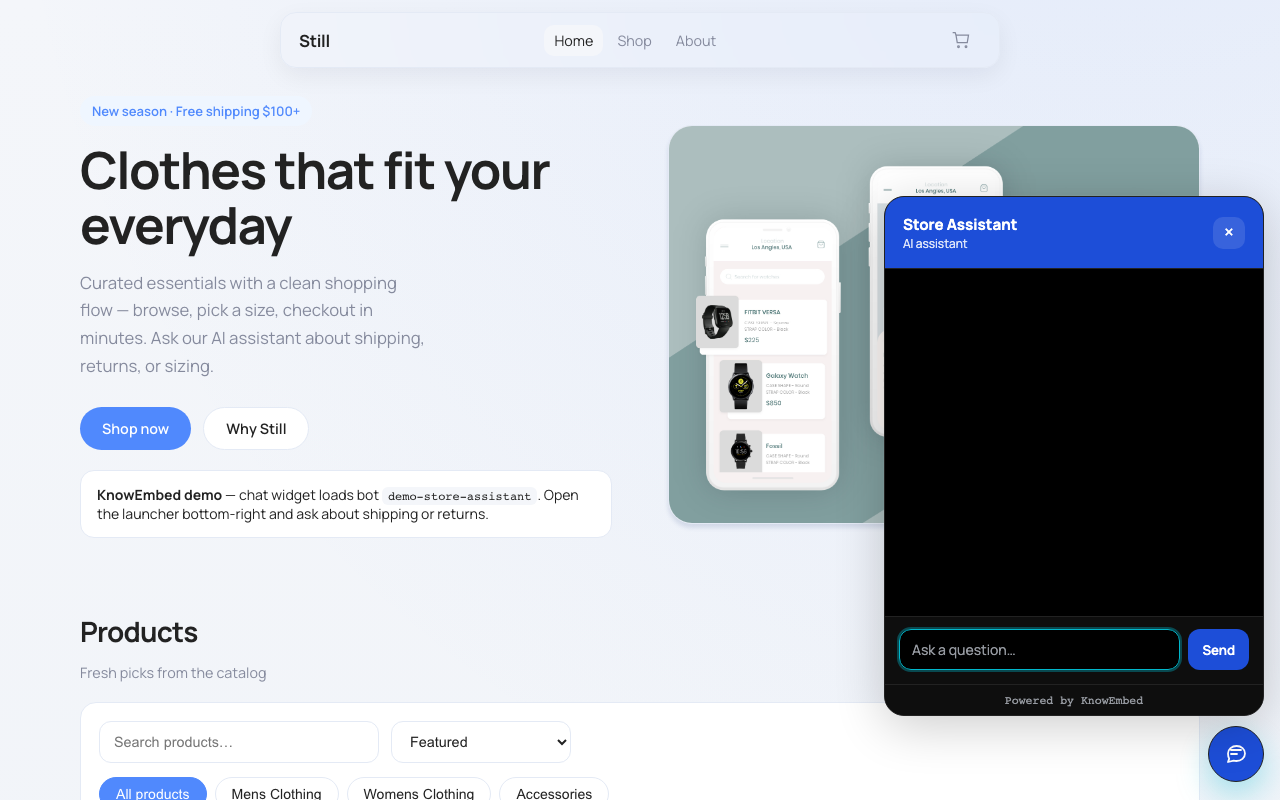
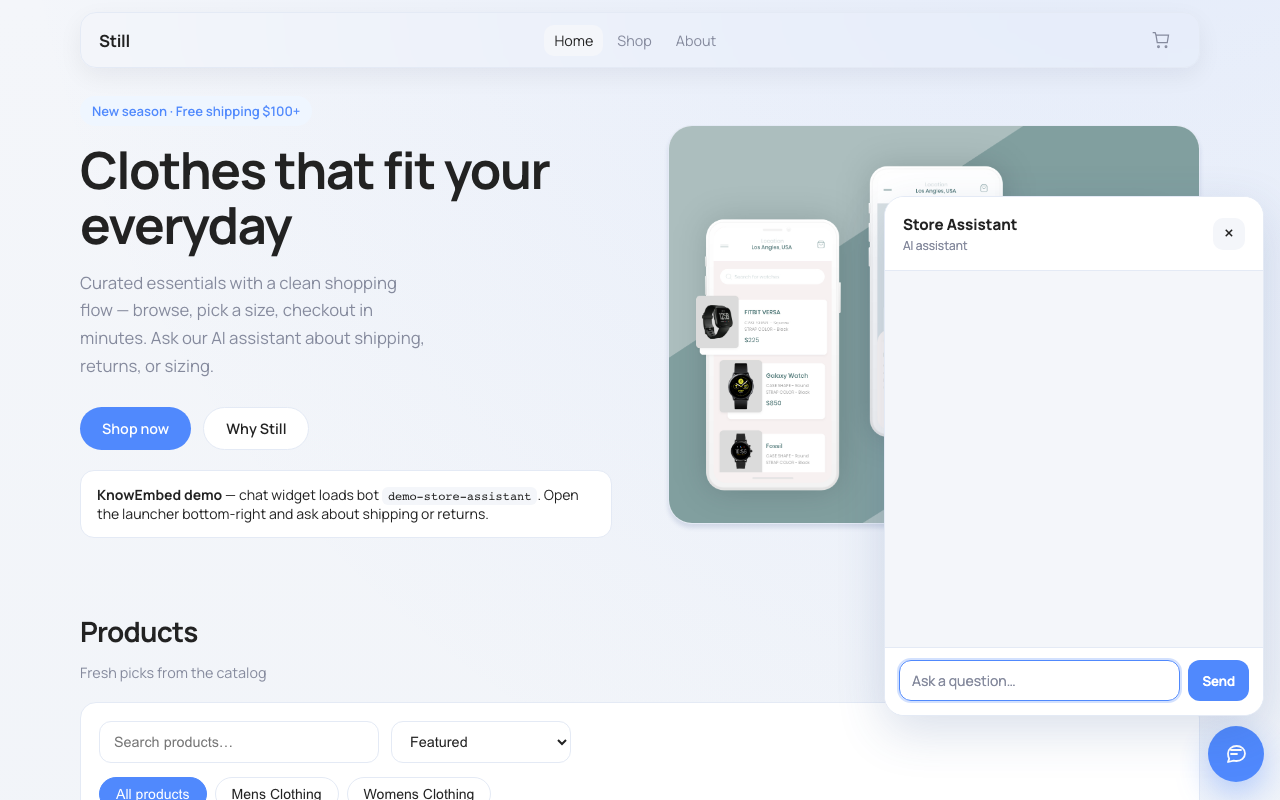
Unify mobile admin chrome and refresh marketing screenshots.
Compact tabbar/topbar on all mobile admin pages to match analytics, widen store demo header nav on small screens, and recapture guide, OG, and app promo assets.

diff --git a/src/theme.css b/src/theme.css
@@ -1077,18 +1077,20 @@ body {
     grid-template-areas:
       'topbar'
       'main';
-    padding-bottom: calc(64px + env(safe-area-inset-bottom, 0px));
+    padding-bottom: calc(52px + env(safe-area-inset-bottom, 0px));
   }
 
   .app-topbar {
     display: flex;
     grid-area: topbar;
     align-items: center;
-    gap: 12px;
+    gap: 10px;
     position: sticky;
     top: 0;
     z-index: 90;
-    padding: 10px 16px;
+    padding: 8px 12px;
+    padding-top: calc(8px + env(safe-area-inset-top, 0px));
+    min-height: 48px;
     background: rgba(255, 255, 255, 0.92);
     backdrop-filter: blur(16px);
     border-bottom: 1px solid var(--m-border);
@@ -1147,13 +1149,15 @@ body {
 
   .app-sidebar {
     position: fixed;
-    top: 0;
+    top: env(safe-area-inset-top, 0px);
     left: 0;
-    bottom: 0;
+    bottom: env(safe-area-inset-bottom, 0px);
     z-index: 100;
-    width: min(300px, 88vw);
+    width: min(280px, 92vw);
     min-height: auto;
     margin: 0;
+    padding: 16px 14px;
+    gap: 16px;
     border-right: 1px solid var(--m-border);
     box-shadow: 8px 0 32px rgba(51, 82, 143, 0.15);
     transform: translateX(-105%);
@@ -1200,27 +1204,33 @@ body {
     right: 0;
     bottom: 0;
     z-index: 80;
-    padding: 8px 12px calc(8px + env(safe-area-inset-bottom, 0px));
+    padding: 4px 8px calc(4px + env(safe-area-inset-bottom, 0px));
     background: rgba(255, 255, 255, 0.94);
     backdrop-filter: blur(16px);
     border-top: 1px solid var(--m-border);
     box-shadow: 0 -4px 20px rgba(51, 82, 143, 0.08);
-    gap: 6px;
+    gap: 4px;
   }
 
   .app-tabbar-item {
     flex: 1;
     display: flex;
+    flex-direction: column;
     align-items: center;
     justify-content: center;
-    min-height: 44px;
-    padding: 8px 10px;
+    min-height: 40px;
+    padding: 4px 6px;
+    gap: 2px;
     border-radius: var(--m-radius-sm);
     text-decoration: none;
-    font-size: 0.78rem;
+    font-size: 0.62rem;
     font-weight: 700;
     color: var(--m-muted);
     transition: background 0.2s var(--ease), color 0.2s var(--ease);
+  }
+
+  .app-tabbar-label {
+    font-size: 0.62rem;
   }
 
   .app-tabbar-item.active {
@@ -1235,14 +1245,39 @@ body {
   .page-heading.inline {
     flex-direction: column;
     align-items: stretch;
+    gap: 12px;
+    margin-bottom: 16px;
+  }
+
+  .page-heading.inline h1 {
+    font-size: clamp(1.5rem, 6vw, 1.85rem);
+    margin-bottom: 0;
+  }
+
+  .page-heading.inline .btn {
+    width: 100%;
+    justify-content: center;
   }
 
   .page-heading.inline .toolbar {
+    display: flex;
+    flex-wrap: wrap;
+    gap: 8px;
     width: 100%;
   }
 
   .page-heading.inline .toolbar .btn {
-    flex: 1;
+    flex: 1 1 calc(50% - 4px);
+    min-width: 0;
+  }
+
+  .app-nav {
+    gap: 4px;
+  }
+
+  .app-nav-item {
+    padding: 8px 10px;
+    font-size: 0.84rem;
   }
 }
 
@@ -1836,7 +1871,7 @@ html {
   grid-template-areas:
     'topbar'
     'main';
-  padding-bottom: calc(64px + env(safe-area-inset-bottom, 0px));
+  padding-bottom: calc(52px + env(safe-area-inset-bottom, 0px));
 }
 
 .app-layout--native .app-topbar,
@@ -1851,12 +1886,14 @@ html {
 
 .app-layout--native .app-sidebar {
   position: fixed;
-  top: 0;
+  top: env(safe-area-inset-top, 0px);
   left: 0;
-  bottom: 0;
+  bottom: env(safe-area-inset-bottom, 0px);
   z-index: 100;
-  width: min(320px, calc(100vw - 32px));
+  width: min(280px, calc(100vw - 24px));
   min-height: auto;
+  padding: 16px 14px;
+  gap: 16px;
   transform: translateX(-105%);
   transition: transform 0.28s var(--ease);
 }

diff --git a/tests/e2e/capture-guide-screenshots.spec.ts b/tests/e2e/capture-guide-screenshots.spec.ts
@@ -21,15 +21,49 @@ async function shot(page: Page, fileName: string) {
   });
 }
 
-async function signIn(page: Page) {
-  if (!email || !password) {
-    throw new Error('Set TEST_USER_EMAIL and TEST_USER_PASSWORD for authenticated screenshots');
+async function openBotWorkspace(page: Page) {
+  const storeLink = page.getByRole('link', { name: /Store Assistant/i });
+  if (await storeLink.isVisible().catch(() => false)) {
+    await storeLink.click();
+    return;
   }
-  await page.goto('/login');
-  await page.getByLabel('Work email').fill(email);
-  await page.getByLabel('Password').fill(password);
-  await page.getByRole('button', { name: 'Sign in' }).click();
-  await expect(page).toHaveURL(/\/app/, { timeout: 20_000 });
+
+  const createBtn = page.getByRole('button', { name: /Create first bot|New chatbot/i }).first();
+  await createBtn.click();
+  await expect(page).toHaveURL(/\/app\/bots\//, { timeout: 20_000 });
+}
+
+async function ensureKnowledgeReady(page: Page) {
+  const faq = page.getByText('acme-faq.md');
+  if (await faq.isVisible().catch(() => false)) return;
+
+  const reindex = page.getByRole('button', { name: /Re-index demo FAQ/i });
+  if (await reindex.isVisible().catch(() => false)) {
+    await reindex.click();
+    await expect(faq).toBeVisible({ timeout: 90_000 });
+    return;
+  }
+
+  throw new Error('Could not prepare knowledge docs for screenshot');
+}
+
+async function signIn(page: Page) {
+  if (email && password) {
+    await page.goto('/login');
+    await page.getByLabel('Work email').fill(email);
+    await page.getByLabel('Password').fill(password);
+    await page.getByRole('button', { name: 'Sign in' }).click();
+    await expect(page).toHaveURL(/\/app/, { timeout: 20_000 });
+    return;
+  }
+
+  const guestEmail = `knowembed-guide-${Date.now()}@example.com`;
+  const guestPassword = 'KnowEmbedShot1!';
+  await page.goto('/signup');
+  await page.getByLabel('Work email').fill(guestEmail);
+  await page.getByLabel('Password').fill(guestPassword);
+  await page.getByRole('button', { name: 'Create account' }).click();
+  await expect(page).toHaveURL(/\/app/, { timeout: 45_000 });
 }
 
 test('capture demo guide screenshots', async ({ page }) => {
@@ -44,10 +78,9 @@ test('capture demo guide screenshots', async ({ page }) => {
   await shot(page, '02-signup.png');
 
   await signIn(page);
-  await page.getByRole('link', { name: /Store Assistant/i }).click();
-  await expect(page.getByRole('heading', { level: 1, name: 'Store Assistant' })).toBeVisible();
-
-  await expect(page.getByText('acme-faq.md')).toBeVisible({ timeout: 15_000 });
+  await openBotWorkspace(page);
+  await expect(page.getByRole('heading', { level: 1 })).toBeVisible({ timeout: 15_000 });
+  await ensureKnowledgeReady(page);
   await shot(page, '03-knowledge.png');
 
   const chatInput = page.getByPlaceholder('Ask about pricing, shipping, returns…');

diff --git a/public/embed-demo.html b/public/embed-demo.html
@@ -89,14 +89,50 @@
       }
 
       .nav {
-        display: none;
+        display: flex;
         align-items: center;
-        gap: 4px;
+        gap: 2px;
+        flex: 1;
+        justify-content: center;
+        min-width: 0;
       }
 
       @media (min-width: 768px) {
         .nav {
-          display: flex;
+          gap: 4px;
+        }
+      }
+
+      @media (max-width: 767px) {
+        :root {
+          --wrap: 100%;
+        }
+
+        .site-header {
+          padding: 8px 10px 0;
+        }
+
+        .site-header__bar {
+          width: 100%;
+          max-width: 100%;
+          margin-inline: 0;
+          padding: 0 10px;
+          gap: 8px;
+        }
+
+        .brand {
+          flex-shrink: 0;
+          font-size: 0.95rem;
+        }
+
+        .nav-link {
+          font-size: 0.72rem;
+          padding: 5px 7px;
+          white-space: nowrap;
+        }
+
+        .header-actions {
+          flex-shrink: 0;
         }
       }
 
